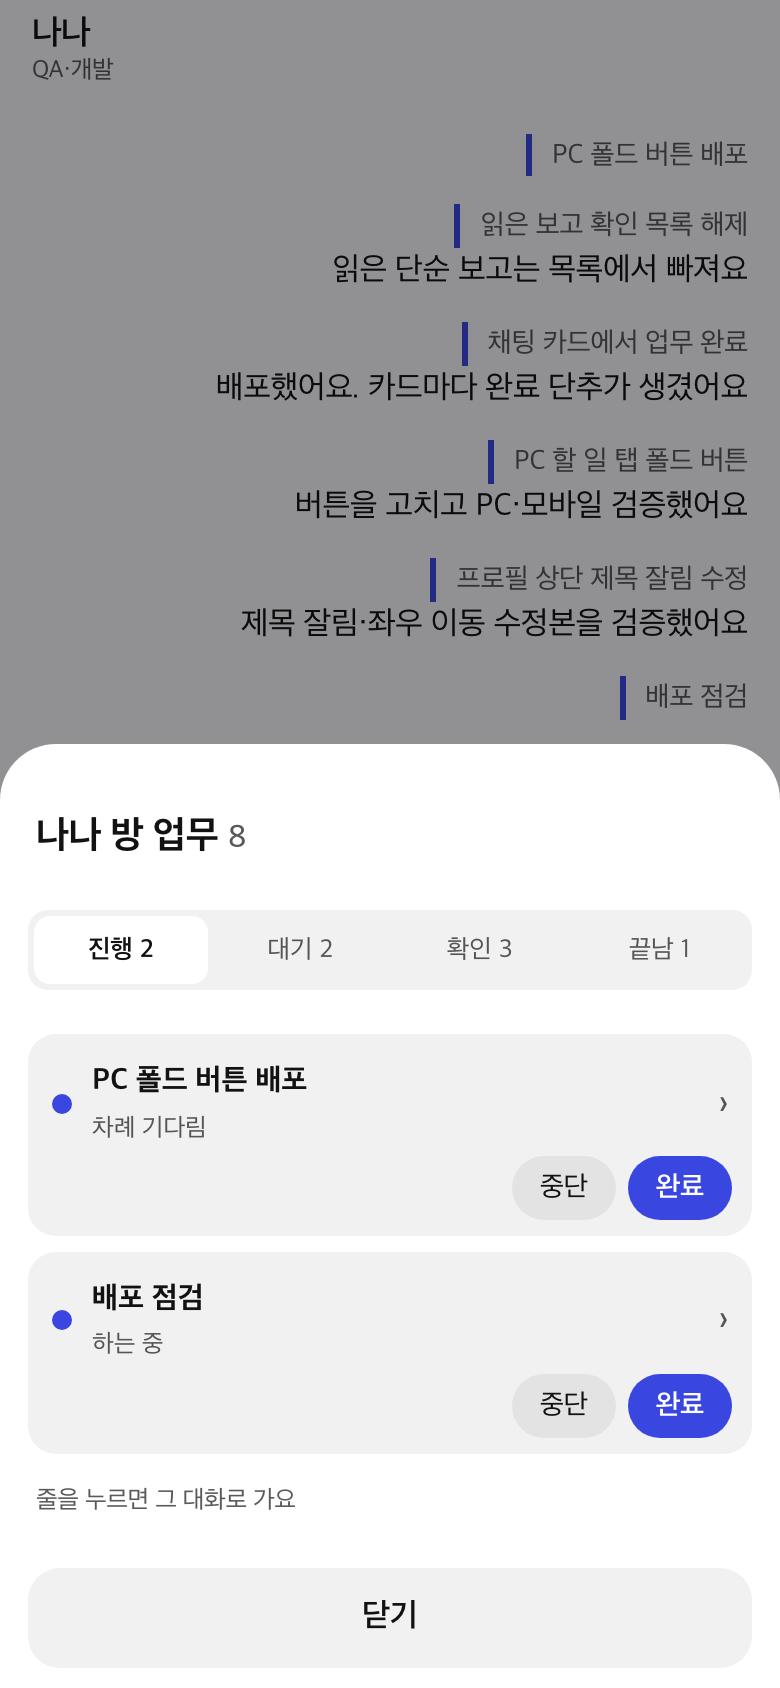
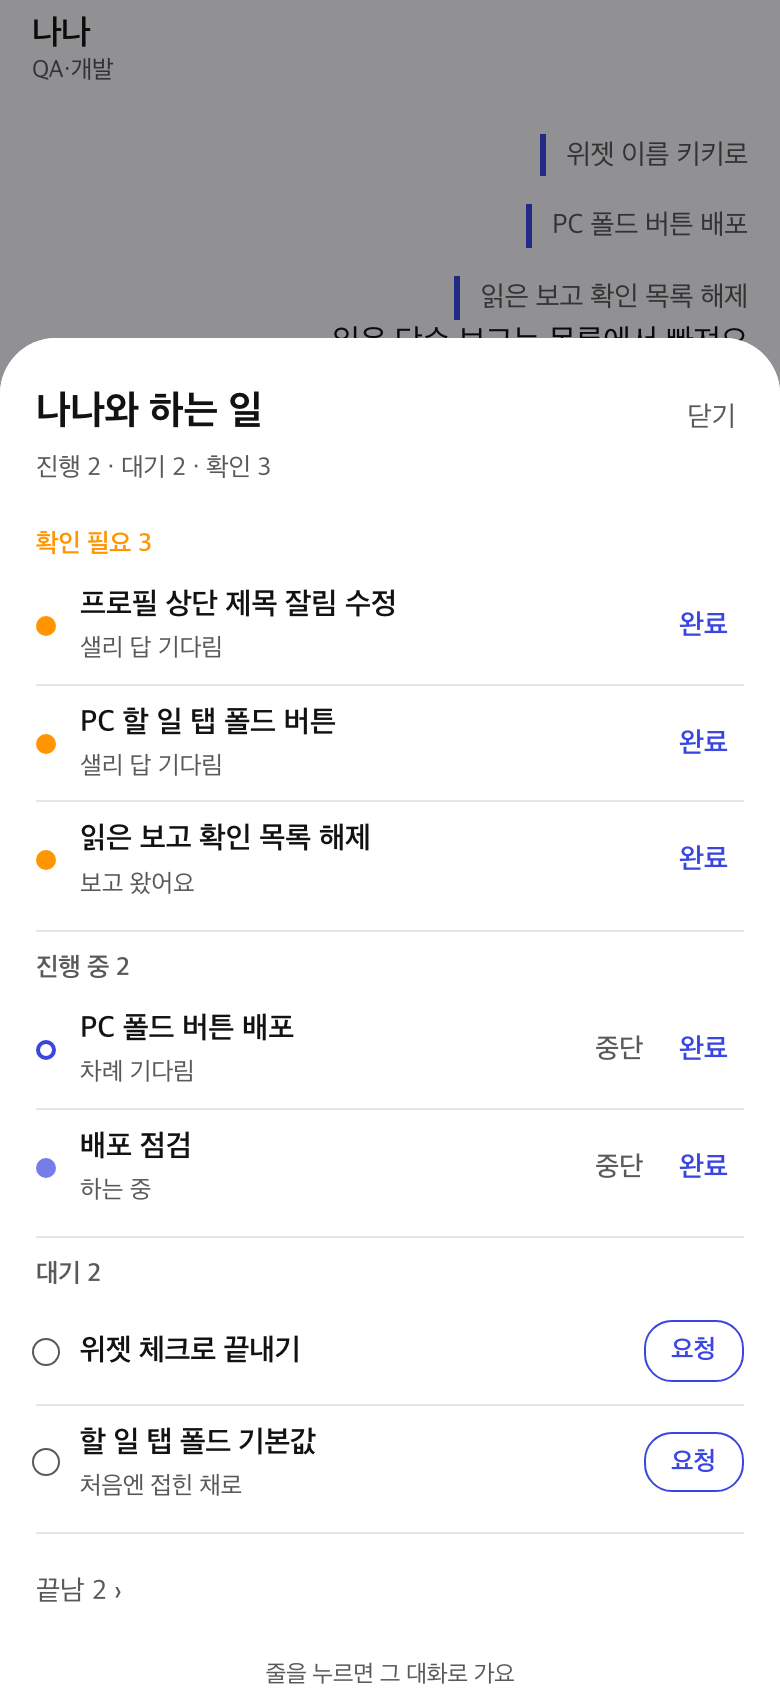
Deploy kiki-todo-crew-page → public-pages/ (redeploy, 2026-11-01)

diff --git a/kiki-todo-crew-page/index.html b/kiki-todo-crew-page/index.html
@@ -9,10 +9,10 @@ figure{margin:0}img{width:100%;border-radius:12px;border:1px solid var(--line);d
 <h1>할 일·맡기기 위젯과 크루 페이지</h1>
 <p class="sub">11월 1일 · 위젯은 집맥에 설치 완료, 크루 페이지는 배포 전 확인용</p>
 <p class="band">위젯 두 개는 지금 바로 쓸 수 있습니다. 크루네 크루 페이지는 아래 시안과 실제 화면을 보고 「배포해」라고 하시면 올립니다.</p>
-<section><h2>새로 만든 화면 · 채팅방 「방 업무」 (책갈피 모양)</h2><p class="sub">카카오톡 책갈피의 보기 편한 모양(방 오른쪽 아래 단추 → 이 방 목록 → 누르면 그 자리로)만 빌리고, 안에는 이 방 업무를 상태별로 담았습니다. 목록에서 바로 처리할 수 있어요.</p>
-<figure><img src="img/room-work.png" alt="방 업무 시안"><figcaption>시안: ① 방 오른쪽 아래 업무 단추 ② 진행 중 · 중단하거나 완료 ③ 대기 · 바로 요청</figcaption></figure>
-<div class="shots"><figure><img src="img/rw-button.png" alt="방 업무 단추"><figcaption>실제 화면 · 단추(남은 업무 수)</figcaption></figure><figure><img src="img/rw-doing.png" alt="진행"><figcaption>진행 · 중단 / 완료</figcaption></figure><figure><img src="img/rw-wait.png" alt="대기"><figcaption>대기 · 요청 누른 뒤</figcaption></figure><figure><img src="img/rw-review.png" alt="확인"><figcaption>확인 · 완료</figcaption></figure></div>
-<ul><li>진행: 하는 중 · 차례 기다림. 「중단」은 바로 멈춤, 「완료」는 멈춘 것을 확인한 뒤 끝남으로 옮겨요</li><li>대기: 아직 안 맡긴 이 크루의 할 일. 「요청」을 누르면 바로 새 업무로 보내요(실패하면 대기에 다시 보여요)</li><li>확인: 답·보고·멈춤이 온 업무. 「완료」로 끝남으로 옮겨요</li><li>줄을 누르면 그 업무 말풍선으로 가서 잠깐 강조돼요</li><li>아직 배포 전입니다. 시험 자료로 띄운 화면이에요.</li></ul></section>
+<section><h2>다시 만든 화면 · 「나나와 하는 일」 (책갈피 모양, 2차)</h2><p class="sub">1차 「방 업무」는 칸 4개를 오가야 하고 줄이 커서 한 화면에 2건만 보였어요. 칸을 없애고 한 장 목록으로 바꿨습니다.</p>
+<figure><img src="img/room-work.png" alt="하는 일 시안"><figcaption>시안: ① 단추 하나 · 급한 것만 숫자 ② 한 장 목록 · 상태별로 묶음 ③ 중단은 한 번 더 확인</figcaption></figure>
+<div class="shots"><figure><img src="img/rw-button.png" alt="단추"><figcaption>실제 화면 · 단추(주황 숫자 = 확인 필요)</figcaption></figure><figure><img src="img/rw-doing.png" alt="목록"><figcaption>한 장 목록</figcaption></figure><figure><img src="img/rw-wait.png" alt="중단 확인"><figcaption>중단 재확인</figcaption></figure><figure><img src="img/rw-review.png" alt="다크"><figcaption>다크 모드</figcaption></figure></div>
+<ul><li>순서: 확인 필요 → 진행 중 → 대기 → 끝남(접힘)</li><li>진행 중: 「중단」은 한 번 더 확인, 「완료」는 멈춘 것을 확인한 뒤 끝남으로</li><li>대기: 「요청」을 누르면 바로 새 업무로 보내요</li><li>확인 필요: 「완료」로 끝남으로</li><li>줄을 누르면 그 업무 말풍선으로 가서 잠깐 강조돼요. 아직 배포 전, 시험 자료 화면이에요.</li></ul></section>
 <section><h2>0. 업무 대화에 「진행 상황」 붙이기 (새 시안)</h2><p class="sub">지금은 대화만 쌓여서 무엇을 끝냈고 무엇이 남았는지 보기 어렵습니다. 대화 위에 진행 상황 카드를 두는 두 가지 안입니다.</p>
 <figure><img src="img/progress.png" alt="진행 상황 시안"><figcaption>A 회차로 보기 · B 단계 체크리스트 · 크루 페이지 채팅 줄 진행 막대</figcaption></figure>
 <ul><li>A안: 지금 있는 기록(요청 회차·보고 한 줄·정할 것·다음)으로 바로 만들 수 있어요. 대신 한 회차 안의 세부 단계는 안 보여요.</li>
